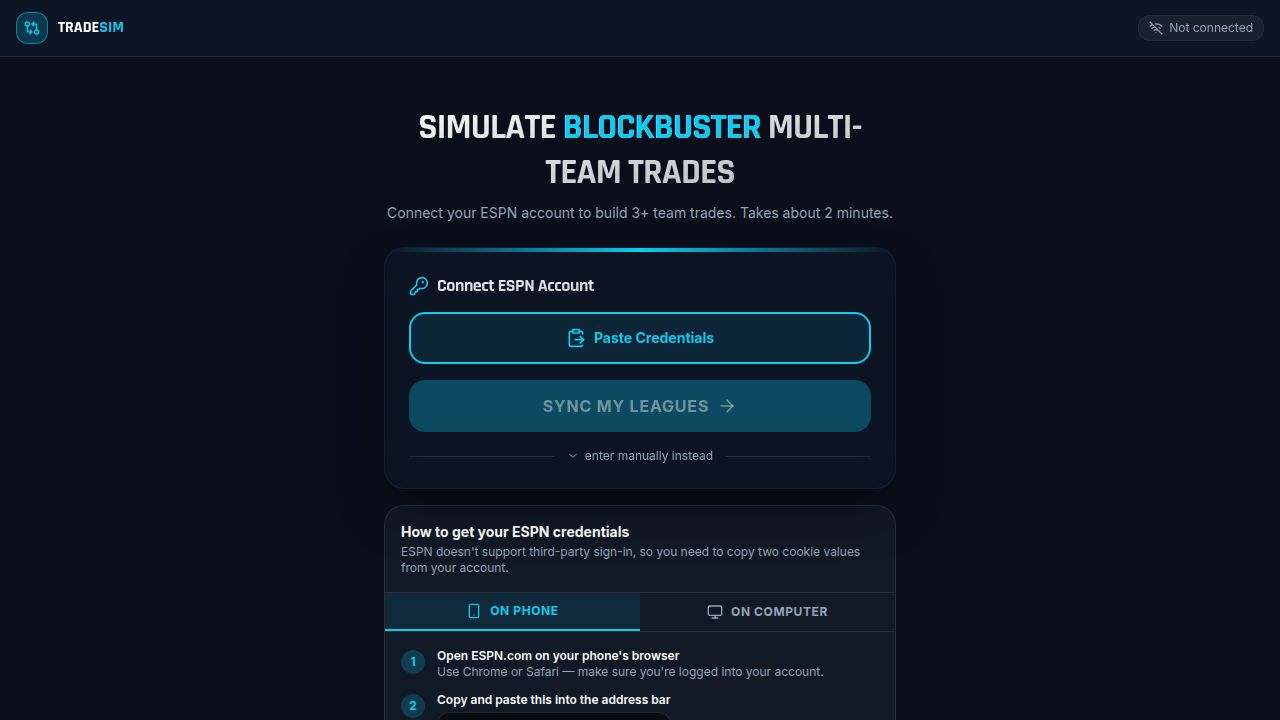
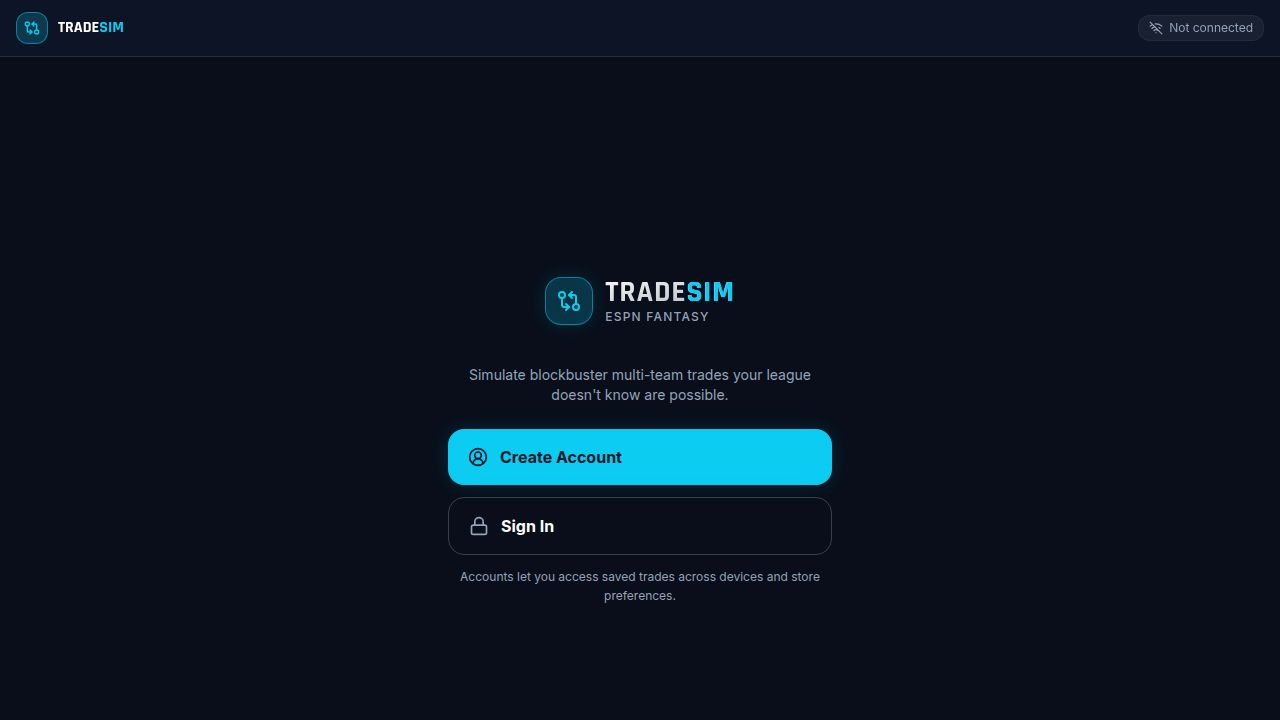
Update build configuration to handle default port and base path
Update `vite.config.ts` to use default values for `PORT` and `BASE_PATH` environment variables, and adjust plugin configuration based on the command context.

Replit-Commit-Author: Agent
Replit-Commit-Session-Id: 7538f281-57a6-4181-97a9-3cda6b492e37
Replit-Commit-Checkpoint-Type: full_checkpoint
Replit-Commit-Event-Id: 5e4d4b88-0e05-4f10-a4f7-a7cc8a562a95
Replit-Commit-Screenshot-Url: https://storage.googleapis.com/screenshot-production-us-central1/4071279f-3c4e-4251-993c-a8e5c1e5f21d/7538f281-57a6-4181-97a9-3cda6b492e37/QPTkc2e
Replit-Helium-Checkpoint-Created: true

Changed region(s): [[0.2812, 0.3361, 0.6875, 1.0], [0.3125, 0.1528, 0.6875, 0.3056]]

diff --git a/artifacts/trade-sim/vite.config.ts b/artifacts/trade-sim/vite.config.ts
@@ -4,36 +4,21 @@ import tailwindcss from "@tailwindcss/vite";
 import path from "path";
 import runtimeErrorOverlay from "@replit/vite-plugin-runtime-error-modal";
 
-const rawPort = process.env.PORT;
-
-if (!rawPort) {
-  throw new Error(
-    "PORT environment variable is required but was not provided.",
-  );
-}
-
+const rawPort = process.env.PORT ?? "22407";
 const port = Number(rawPort);
-
 if (Number.isNaN(port) || port <= 0) {
   throw new Error(`Invalid PORT value: "${rawPort}"`);
 }
 
-const basePath = process.env.BASE_PATH;
+const basePath = process.env.BASE_PATH ?? "/";
 
-if (!basePath) {
-  throw new Error(
-    "BASE_PATH environment variable is required but was not provided.",
-  );
-}
-
-export default defineConfig({
+export default defineConfig(async ({ command }) => ({
   base: basePath,
   plugins: [
     react(),
     tailwindcss(),
     runtimeErrorOverlay(),
-    ...(process.env.NODE_ENV !== "production" &&
-    process.env.REPL_ID !== undefined
+    ...(command === "serve" && process.env.REPL_ID !== undefined
       ? [
           await import("@replit/vite-plugin-cartographer").then((m) =>
             m.cartographer({
@@ -72,4 +57,4 @@ export default defineConfig({
     host: "0.0.0.0",
     allowedHosts: true,
   },
-});
+}));